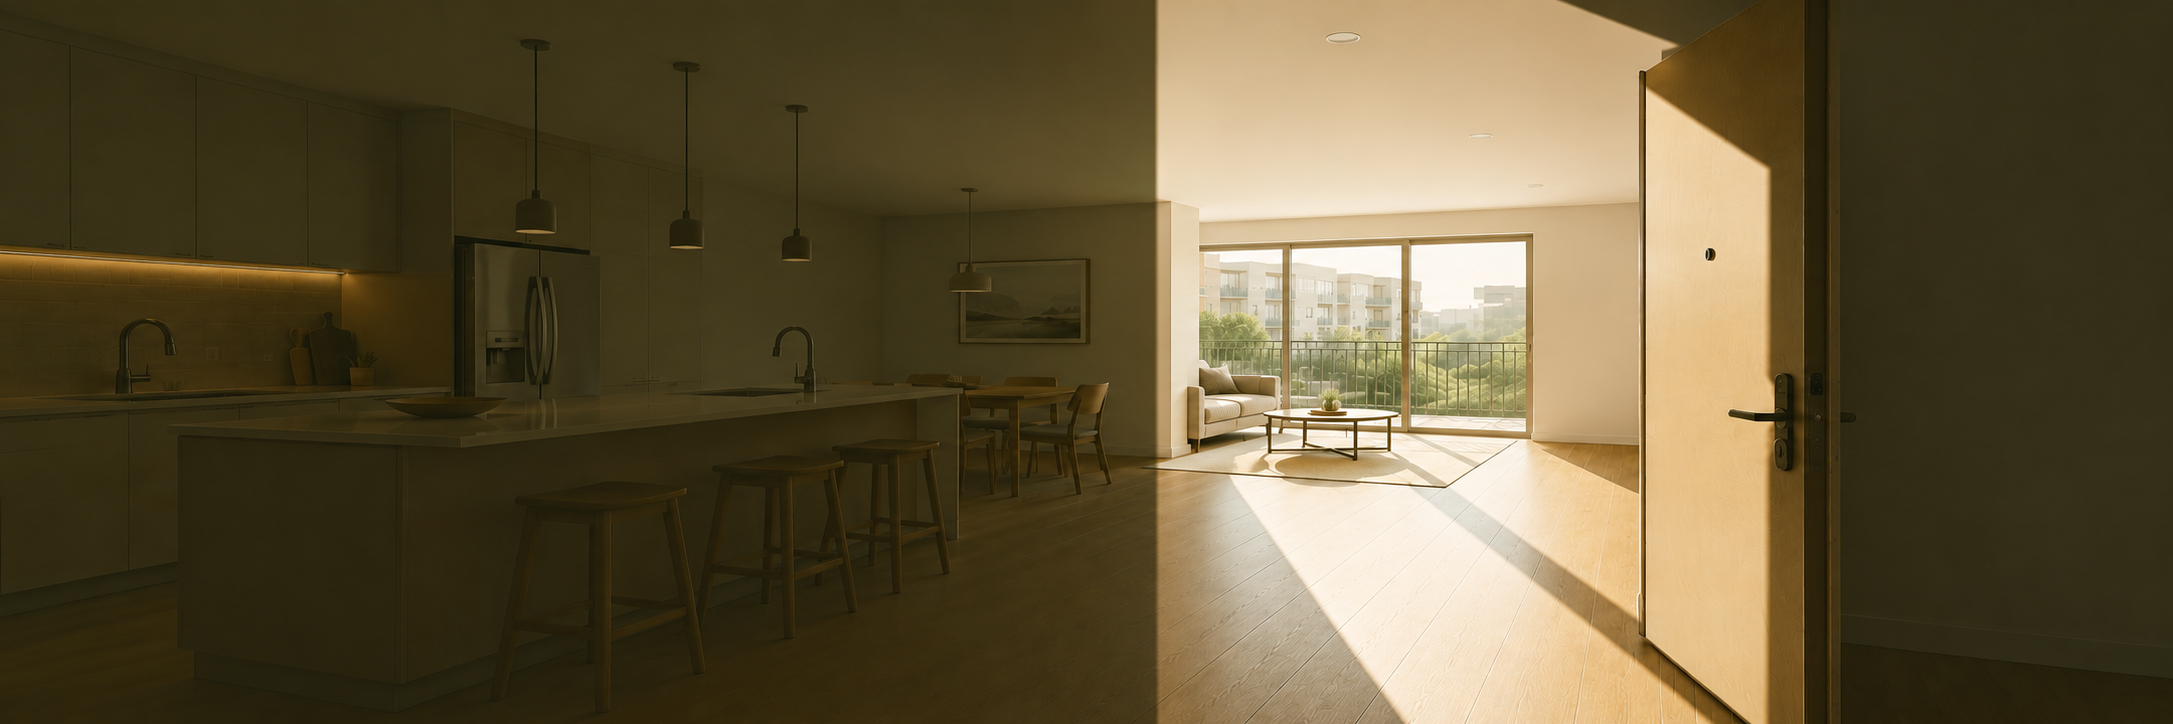
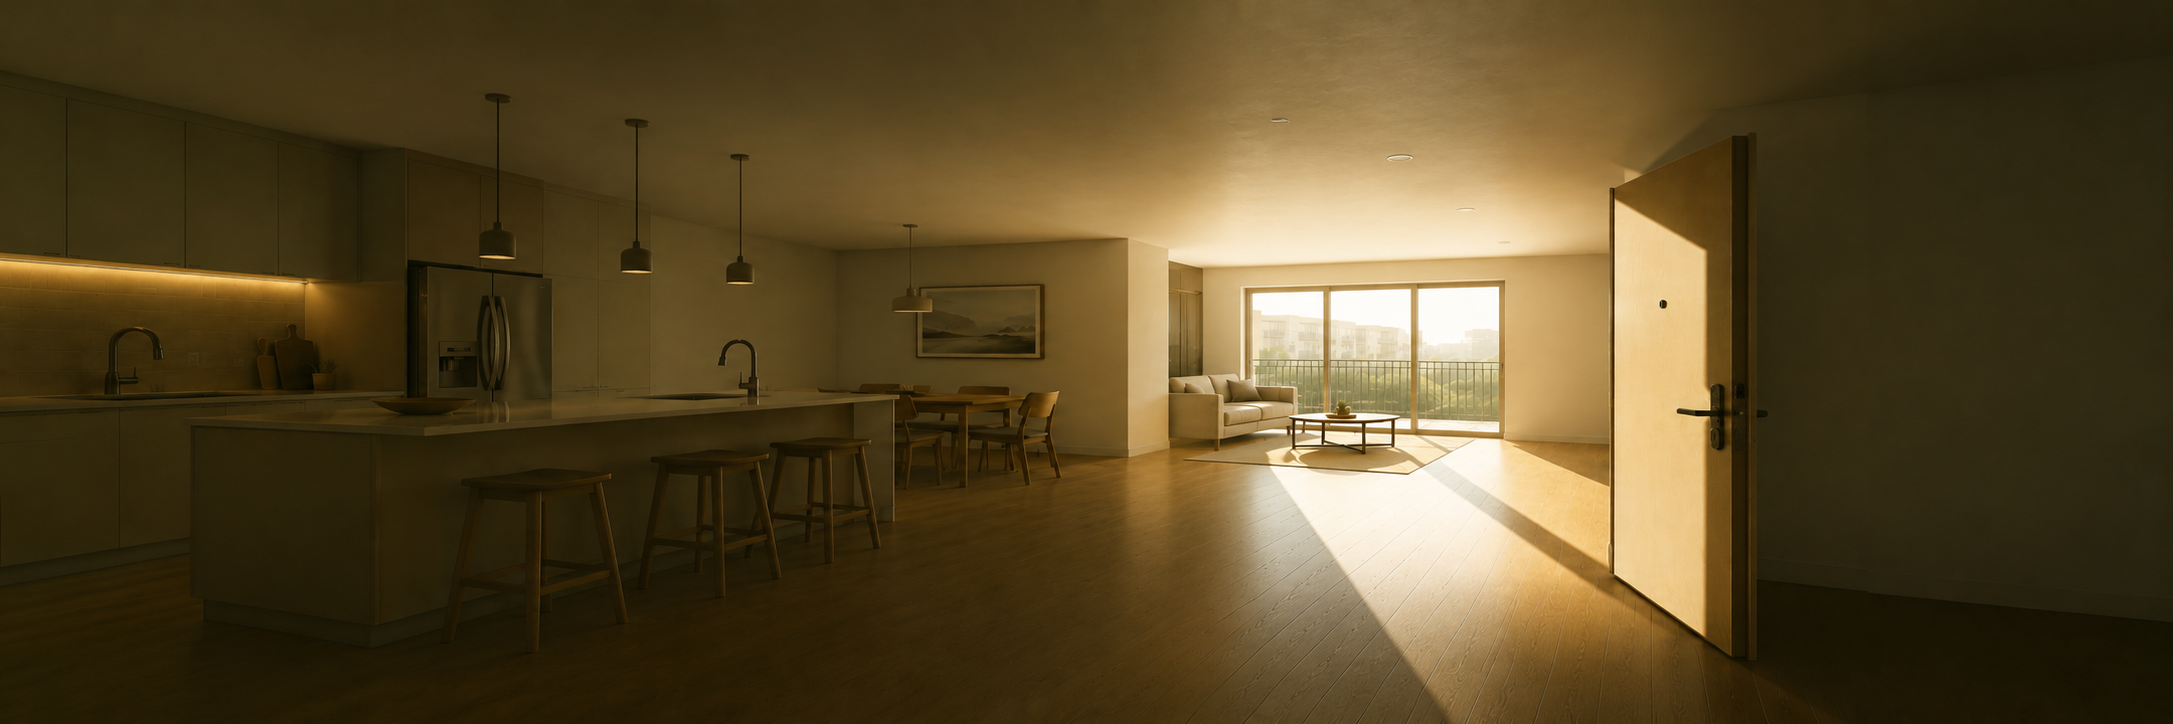
modificando ultimos detalles numeros y correos de las vistas

diff --git a/src/lib/components/layout/Footer.svelte b/src/lib/components/layout/Footer.svelte
@@ -6,12 +6,16 @@
 	});
 
 	const services = [
-		{ href: '/services/turnkey',           label: 'Turnkey Services' },
-		{ href: '/services/painting',          label: 'Painting' },
-		{ href: '/services/repairs',           label: 'Repairs' },
-		{ href: '/services/cleaning',          label: 'Cleaning' },
-		/* { href: '/services/sheetrock',         label: 'Sheetrock Repair' }, */
-		{ href: '/services/tub-resurfacing',   label: 'Tub Resurfacing' },
+		{ href: '/services/turnkey',              label: 'Turnkey Services' },
+		{ href: '/services/repairs',              label: 'Repairs' },
+		{ href: '/services/installations',        label: 'Installation Services' },
+		{ href: '/services/millwork',             label: 'Millwork' },
+		{ href: '/services/painting',             label: 'Painting' },
+		{ href: '/services/cabinet-painting',     label: 'Cabinet Painting' },
+		{ href: '/services/tub-resurfacing',      label: 'Tub & Shower Resurfacing' },
+		{ href: '/services/counter-resurfacing',  label: 'Counter Resurfacing' },
+		{ href: '/services/cleaning',             label: 'Cleaning' },
+		{ href: '/services/carpet-cleaning',      label: 'Carpet Cleaning' }
 	];
 
 	const areas = [
@@ -45,9 +49,9 @@
 				</div>
 
 				<!-- Col 2: Services -->
-				<div class="cps-footer-col">
+				<div class="cps-footer-col cps-footer-services">
 					<h4>Our Services</h4>
-					<ul>
+					<ul class="cps-service-list">
 						{#each services as s}
 							<li><a href={s.href}>{s.label}</a></li>
 						{/each}
@@ -85,7 +89,7 @@
 						<a href="tel:+18504852385" class="cps-contact-item">
 							<i class="bi bi-telephone-fill"></i>
 							<div>
-								<span class="cps-contact-label">Secondary</span>
+								<span class="cps-contact-label">Scheduling</span>
 								<span class="cps-contact-val">+1 (850) 485-2385</span>
 							</div>
 						</a>
@@ -138,12 +142,17 @@
 .cps-footer{background:#1a2018;color:rgba(255,255,255,.75);}
 
 /* TOP */
-.cps-footer-top{padding:60px 0 48px;}
-.cps-footer-grid{display:grid;grid-template-columns:1.8fr 1fr 1.2fr 1.4fr;gap:48px;}
+.cps-footer-top{padding:58px 0 46px;}
+.cps-footer-grid{
+	display:grid;
+	grid-template-columns:minmax(260px,1.15fr) minmax(350px,1.3fr) minmax(230px,1fr) minmax(300px,1.2fr);
+	gap:38px;
+	align-items:start;
+}
 
 /* Brand col */
 .cps-footer-logo img{max-height:52px;width:auto;filter:brightness(0) invert(1);opacity:.9;}
-.cps-footer-tagline{font-size:13.5px;color:rgba(255,255,255,.6);line-height:1.7;margin:16px 0 18px;}
+.cps-footer-tagline{font-size:13.5px;color:rgba(255,255,255,.6);line-height:1.7;margin:16px 0 18px;max-width:360px;}
 .cps-footer-badges{display:flex;flex-wrap:wrap;gap:8px;margin-bottom:20px;}
 .cps-footer-badges span{display:inline-flex;align-items:center;gap:6px;font-size:11px;font-weight:600;color:rgba(255,252,217,.85);background:rgba(255,255,255,.07);border:1px solid rgba(255,255,255,.1);border-radius:20px;padding:5px 12px;}
 .cps-footer-badges i{font-size:12px;color:#fffcd9;}
@@ -152,24 +161,57 @@
 .cps-footer-social a:hover{background:rgba(107,107,40,.5);border-color:#6b6b28;color:#fff;}
 
 /* Link cols */
-.cps-footer-col h4{font-size:13px;font-weight:700;color:#fff;text-transform:uppercase;letter-spacing:1.5px;margin-bottom:16px;}
+.cps-footer-col h4{font-size:13px;font-weight:800;color:#fff;text-transform:uppercase;letter-spacing:1.6px;margin:0 0 16px;}
 .cps-footer-col .mt-4{margin-top:28px !important;}
-.cps-footer-col ul{list-style:none;padding:0;margin:0;display:flex;flex-direction:column;gap:8px;}
-.cps-footer-col ul li a{font-size:13.5px;color:rgba(255,255,255,.6);text-decoration:none;transition:color .2s;display:flex;align-items:center;gap:6px;}
-.cps-footer-col ul li a::before{content:'→';font-size:11px;color:#6b6b28;opacity:0;transition:opacity .2s;}
+.cps-footer-col ul{list-style:none;padding:0;margin:0;}
+.cps-footer-col ul li a{font-size:13.5px;color:rgba(255,255,255,.62);text-decoration:none;transition:color .2s;}
 .cps-footer-col ul li a:hover{color:#fffcd9;}
-.cps-footer-col ul li a:hover::before{opacity:1;}
+
+/* Services: compact and clean */
+.cps-footer-services{min-width:0;}
+.cps-service-list{
+	display:grid;
+	grid-template-columns:repeat(2,minmax(155px,1fr));
+	column-gap:22px;
+	row-gap:11px;
+	max-width:380px;
+}
+.cps-service-list li a{
+	display:inline-flex;
+	align-items:center;
+	gap:8px;
+	font-size:13px;
+	line-height:1.25;
+	white-space:nowrap;
+	letter-spacing:-.01em;
+}
+.cps-service-list li a::before{
+	content:'';
+	width:5px;
+	height:5px;
+	border-radius:50%;
+	background:#c9a63c;
+	box-shadow:0 0 0 3px rgba(201,166,60,.08);
+	flex:0 0 5px;
+}
+.cps-service-list li a:hover::before{background:#fffcd9;}
+
+/* Company links */
+.cps-footer-col:not(.cps-footer-services) > ul{display:flex;flex-direction:column;gap:9px;}
+.cps-footer-col:not(.cps-footer-services) > ul li a{display:inline-flex;align-items:center;gap:7px;}
+.cps-footer-col:not(.cps-footer-services) > ul li a::before{content:'→';font-size:11px;color:#6b6b28;opacity:0;transition:opacity .2s;}
+.cps-footer-col:not(.cps-footer-services) > ul li a:hover::before{opacity:1;}
 
 /* Areas */
-.cps-footer-areas{display:flex;flex-wrap:wrap;gap:5px;}
-.cps-footer-areas span{font-size:11px;color:rgba(255,255,255,.5);background:rgba(255,255,255,.05);border:1px solid rgba(255,255,255,.08);border-radius:12px;padding:3px 9px;}
+.cps-footer-areas{display:flex;flex-wrap:wrap;gap:6px;max-width:260px;}
+.cps-footer-areas span{font-size:11px;color:rgba(255,255,255,.55);background:rgba(255,255,255,.05);border:1px solid rgba(255,255,255,.08);border-radius:12px;padding:3px 9px;}
 
 /* Contact col */
 .cps-footer-contact-list{display:flex;flex-direction:column;gap:12px;}
 .cps-contact-item{display:flex;align-items:flex-start;gap:11px;text-decoration:none;transition:color .2s;}
 .cps-contact-item i{font-size:14px;color:#6b6b28;flex-shrink:0;margin-top:2px;}
-.cps-contact-label{display:block;font-size:10px;color:rgba(255,255,255,.4);text-transform:uppercase;letter-spacing:1px;margin-bottom:1px;}
-.cps-contact-val{display:block;font-size:13px;color:rgba(255,255,255,.75);transition:color .2s;}
+.cps-contact-label{display:block;font-size:10px;color:rgba(255,255,255,.42);text-transform:uppercase;letter-spacing:1px;margin-bottom:1px;}
+.cps-contact-val{display:block;font-size:13px;color:rgba(255,255,255,.78);transition:color .2s;}
 a.cps-contact-item:hover .cps-contact-val{color:#fffcd9;}
 
 /* BOTTOM */
@@ -180,9 +222,15 @@ a.cps-contact-item:hover .cps-contact-val{color:#fffcd9;}
 .cps-footer-credit{font-size:12px;color:rgba(255,255,255,.3);}
 
 /* RESPONSIVE */
-@media(max-width:1100px){.cps-footer-grid{grid-template-columns:1fr 1fr;gap:36px;}}
-@media(max-width:600px){
-	.cps-footer-grid{grid-template-columns:1fr;gap:28px;}
+@media(max-width:1200px){
+	.cps-footer-grid{grid-template-columns:1.1fr 1fr;gap:36px 44px;}
+	.cps-service-list{max-width:none;grid-template-columns:repeat(2,minmax(150px,1fr));}
+}
+@media(max-width:700px){
+	.cps-footer-top{padding:46px 0 36px;}
+	.cps-footer-grid{grid-template-columns:1fr;gap:30px;}
+	.cps-service-list{grid-template-columns:1fr;row-gap:10px;}
+	.cps-service-list li a{white-space:normal;}
 	.cps-footer-bottom-inner{justify-content:center;text-align:center;}
 }
 </style>

diff --git a/src/routes/contact/+page.svelte b/src/routes/contact/+page.svelte
@@ -124,11 +124,11 @@
 					</div>
 				</a>
 				<div class="ct-quick-div"></div>
-				<a href="mailto:scheduling@cordovaps.com" class="ct-quick-item">
+				<a href="mailto:customer@cordovaps.com" class="ct-quick-item">
 					<i class="bi bi-envelope-fill"></i>
 					<div>
-						<span class="ct-quick-label">Email Scheduling</span>
-						<span class="ct-quick-value">scheduling@cordovaps.com</span>
+						<span class="ct-quick-label">Email office</span>
+						<span class="ct-quick-value">customer@cordovaps.com</span>
 					</div>
 				</a>
 				<div class="ct-quick-div"></div>
@@ -257,11 +257,11 @@
 								<span class="ct-direct-val">+1 (448) 219-6669</span>
 							</div>
 						</a>
-						<a href="tel:+18504852385" class="ct-direct-item">
+						<a href="tel:+18503238103" class="ct-direct-item">
 							<div class="ct-direct-icon"><i class="bi bi-telephone-fill"></i></div>
 							<div>
 								<span class="ct-direct-label">Scheduling</span>
-								<span class="ct-direct-val">+1 (850) 485-2385</span>
+								<span class="ct-direct-val">+1 (850) 323-8103</span>
 							</div>
 						</a>
 						<a href="mailto:customer@cordovaps.com" class="ct-direct-item">

diff --git a/src/lib/components/pages/ServicePage.svelte b/src/lib/components/pages/ServicePage.svelte
@@ -146,14 +146,14 @@
 							<span>Request This Service</span>
 						</div>
 						<p class="sp-sidebar-sub">Free estimate · 24h response · Gulf Coast coverage</p>
-						<a href="/contact" class="sp-sidebar-btn-primary">Schedule Now</a>
+						<a href="/contact" class="sp-sidebar-btn-primary">Contact us</a>
 						<a href="tel:+14482196669" class="sp-sidebar-btn-call">
 							<i class="bi bi-telephone-fill"></i>
 							(448) 219-6669
 						</a>
-						<a href="mailto:scheduling@cordovaps.com" class="sp-sidebar-btn-email">
+						<a href="mailto:customer@cordovaps.com" class="sp-sidebar-btn-email">
 							<i class="bi bi-envelope-fill"></i>
-							scheduling@cordovaps.com
+							customer@cordovaps.com
 						</a>
 						<div class="sp-sidebar-divider"></div>
 						<ul class="sp-sidebar-trust">

diff --git a/src/lib/components/sections/ContactSection.svelte b/src/lib/components/sections/ContactSection.svelte
@@ -101,7 +101,7 @@
 							</div>
 							<p><a href="tel:+14482196669">+1 (448) 219-6669</a></p>
 							<p><a href="tel:+18504852385">+1 (850) 485-2385</a></p>
-							<p><a href="tel:+18503238103">+1 (850) 323-8103</a></p>
+							<p><a href="tel:+18503238103">+1 (850) 943 4114</a></p>
 						</div>
 					</div>
 					<div class="col-md-6">

diff --git a/src/routes/about/+page.svelte b/src/routes/about/+page.svelte
@@ -253,7 +253,7 @@ const platforms = [
 
 	.about-hero {
 		position: relative;
-		height: 460px;
+		height: 480px;
 		min-height: 460px;
 		display: flex;
 		align-items: center;

diff --git a/src/lib/components/sections/HeroSection.svelte b/src/lib/components/sections/HeroSection.svelte
@@ -82,7 +82,7 @@
 	/* === FOUNDATION === */
 	#hero {
 		position: relative;
-		height: 460px;
+		height: 480px;
 		min-height: 460px;
 		padding: 0;
 		display: flex;
